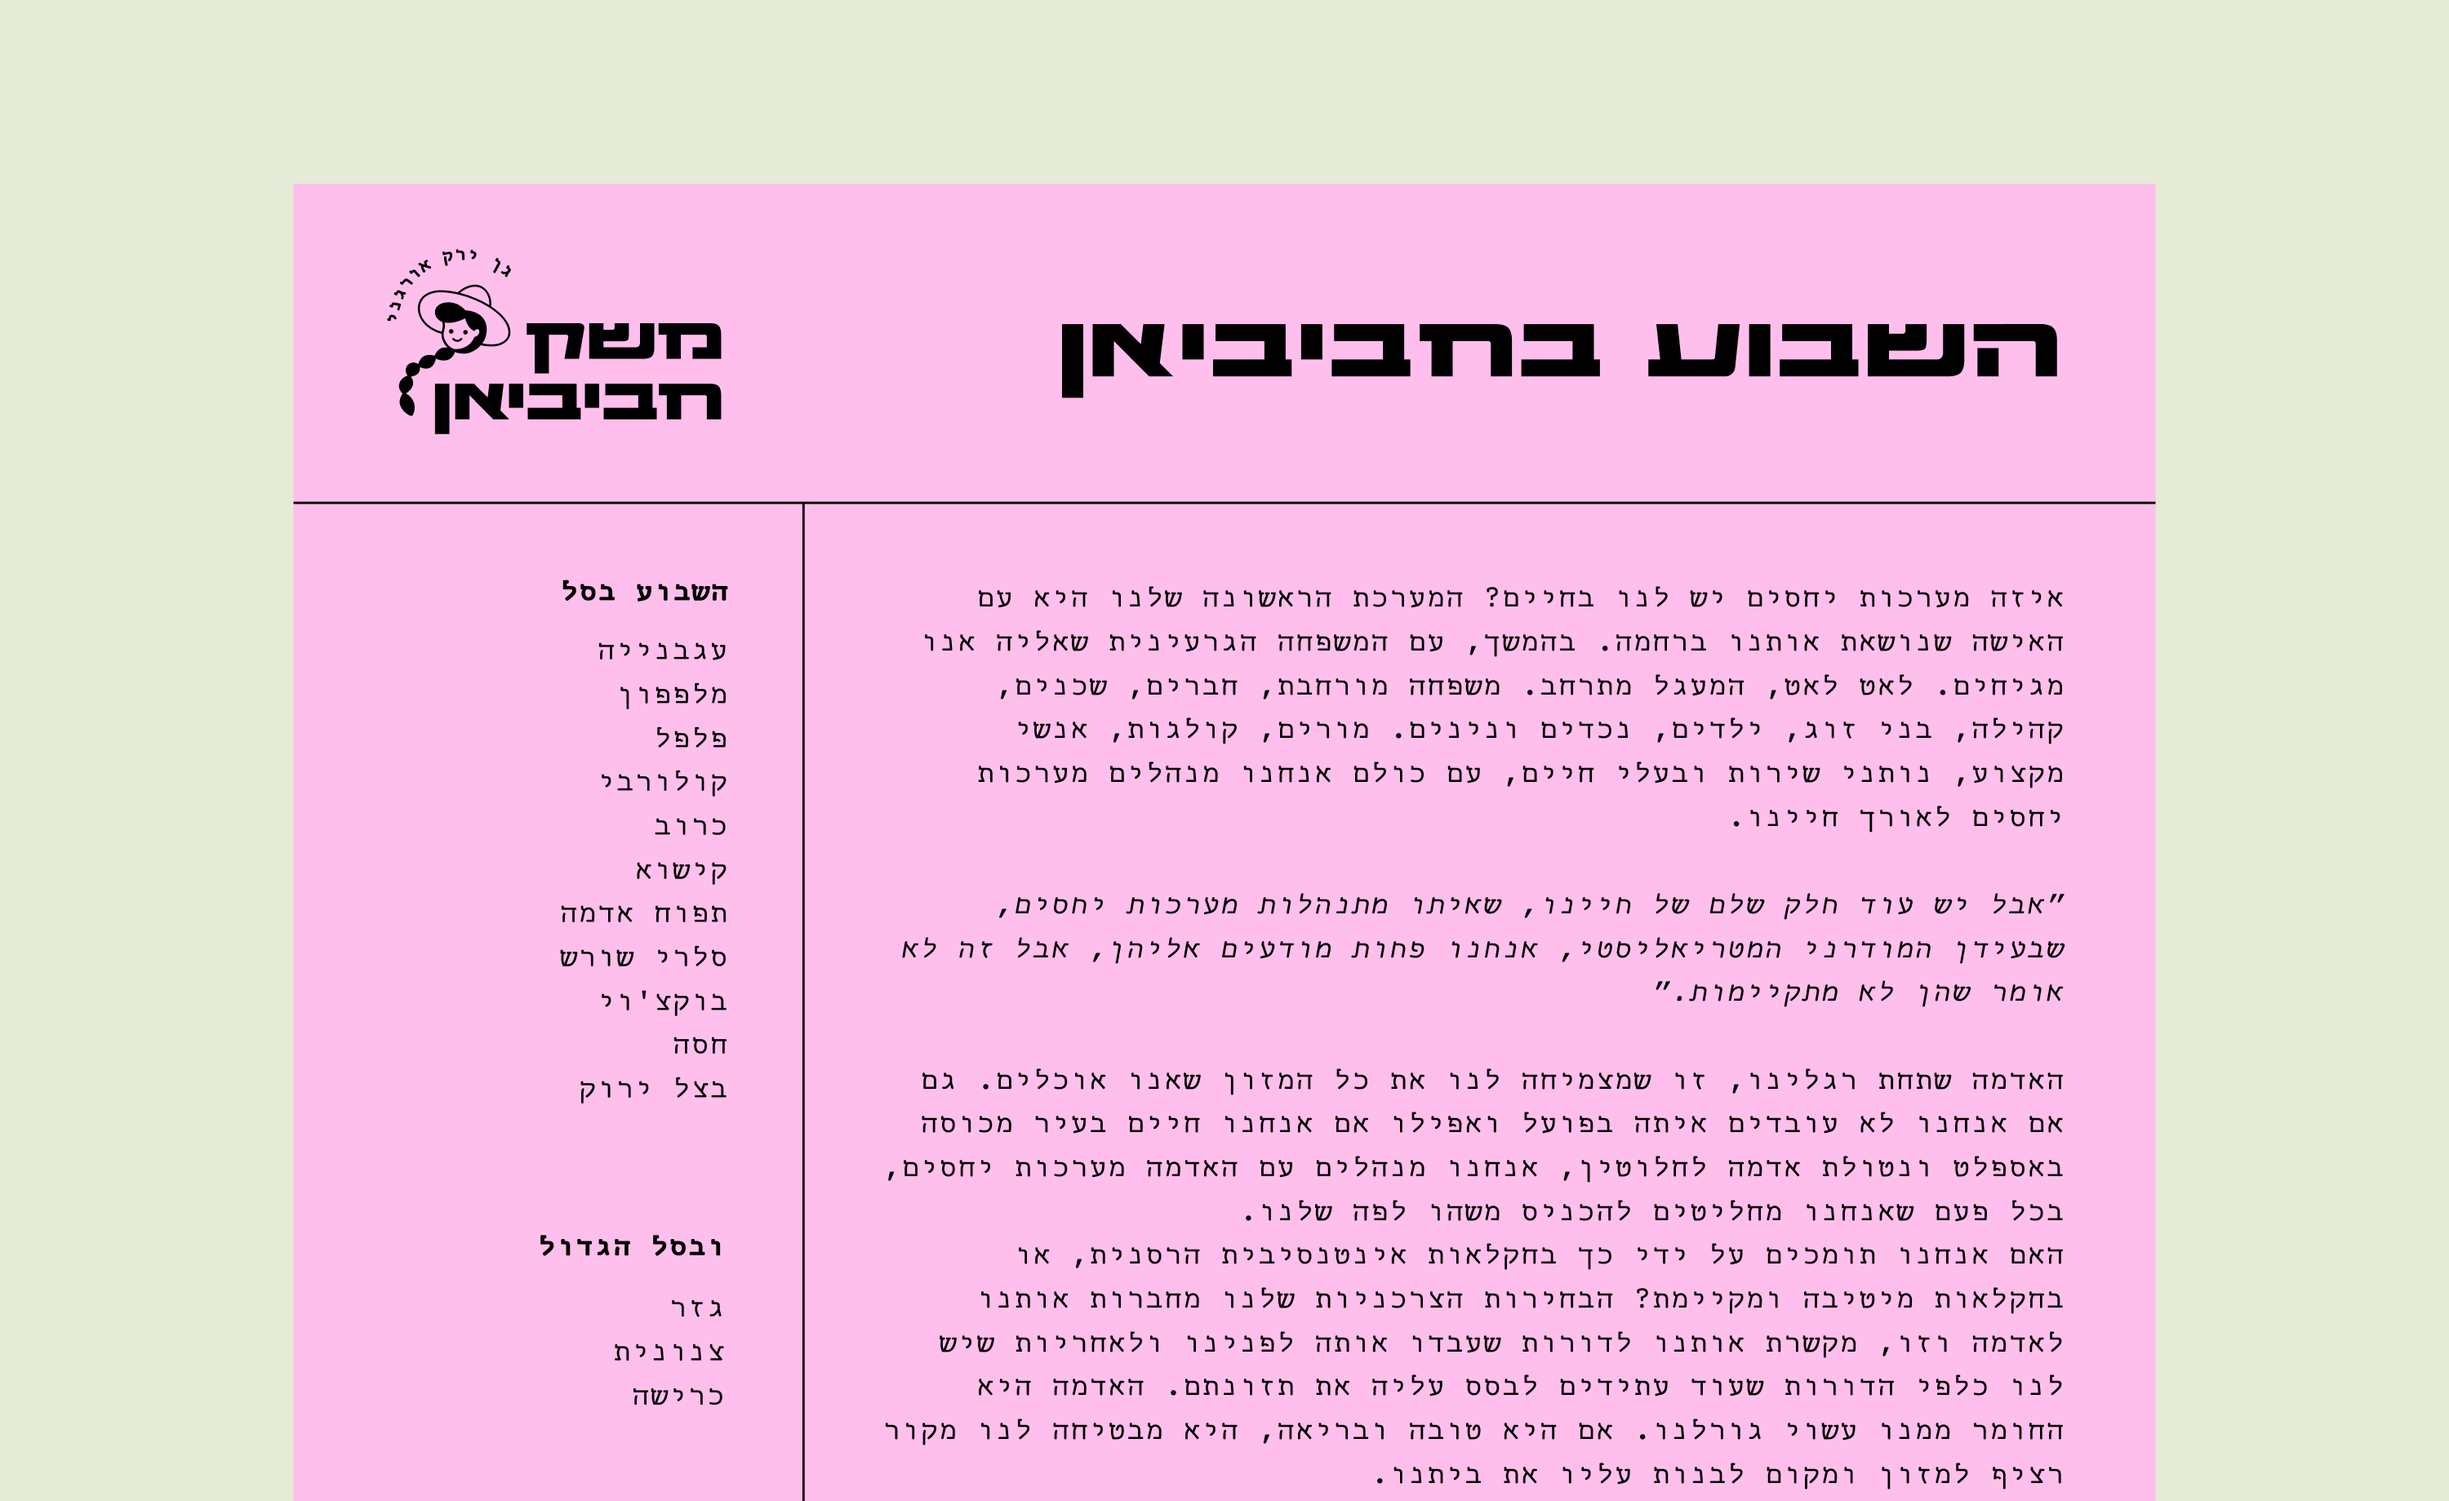
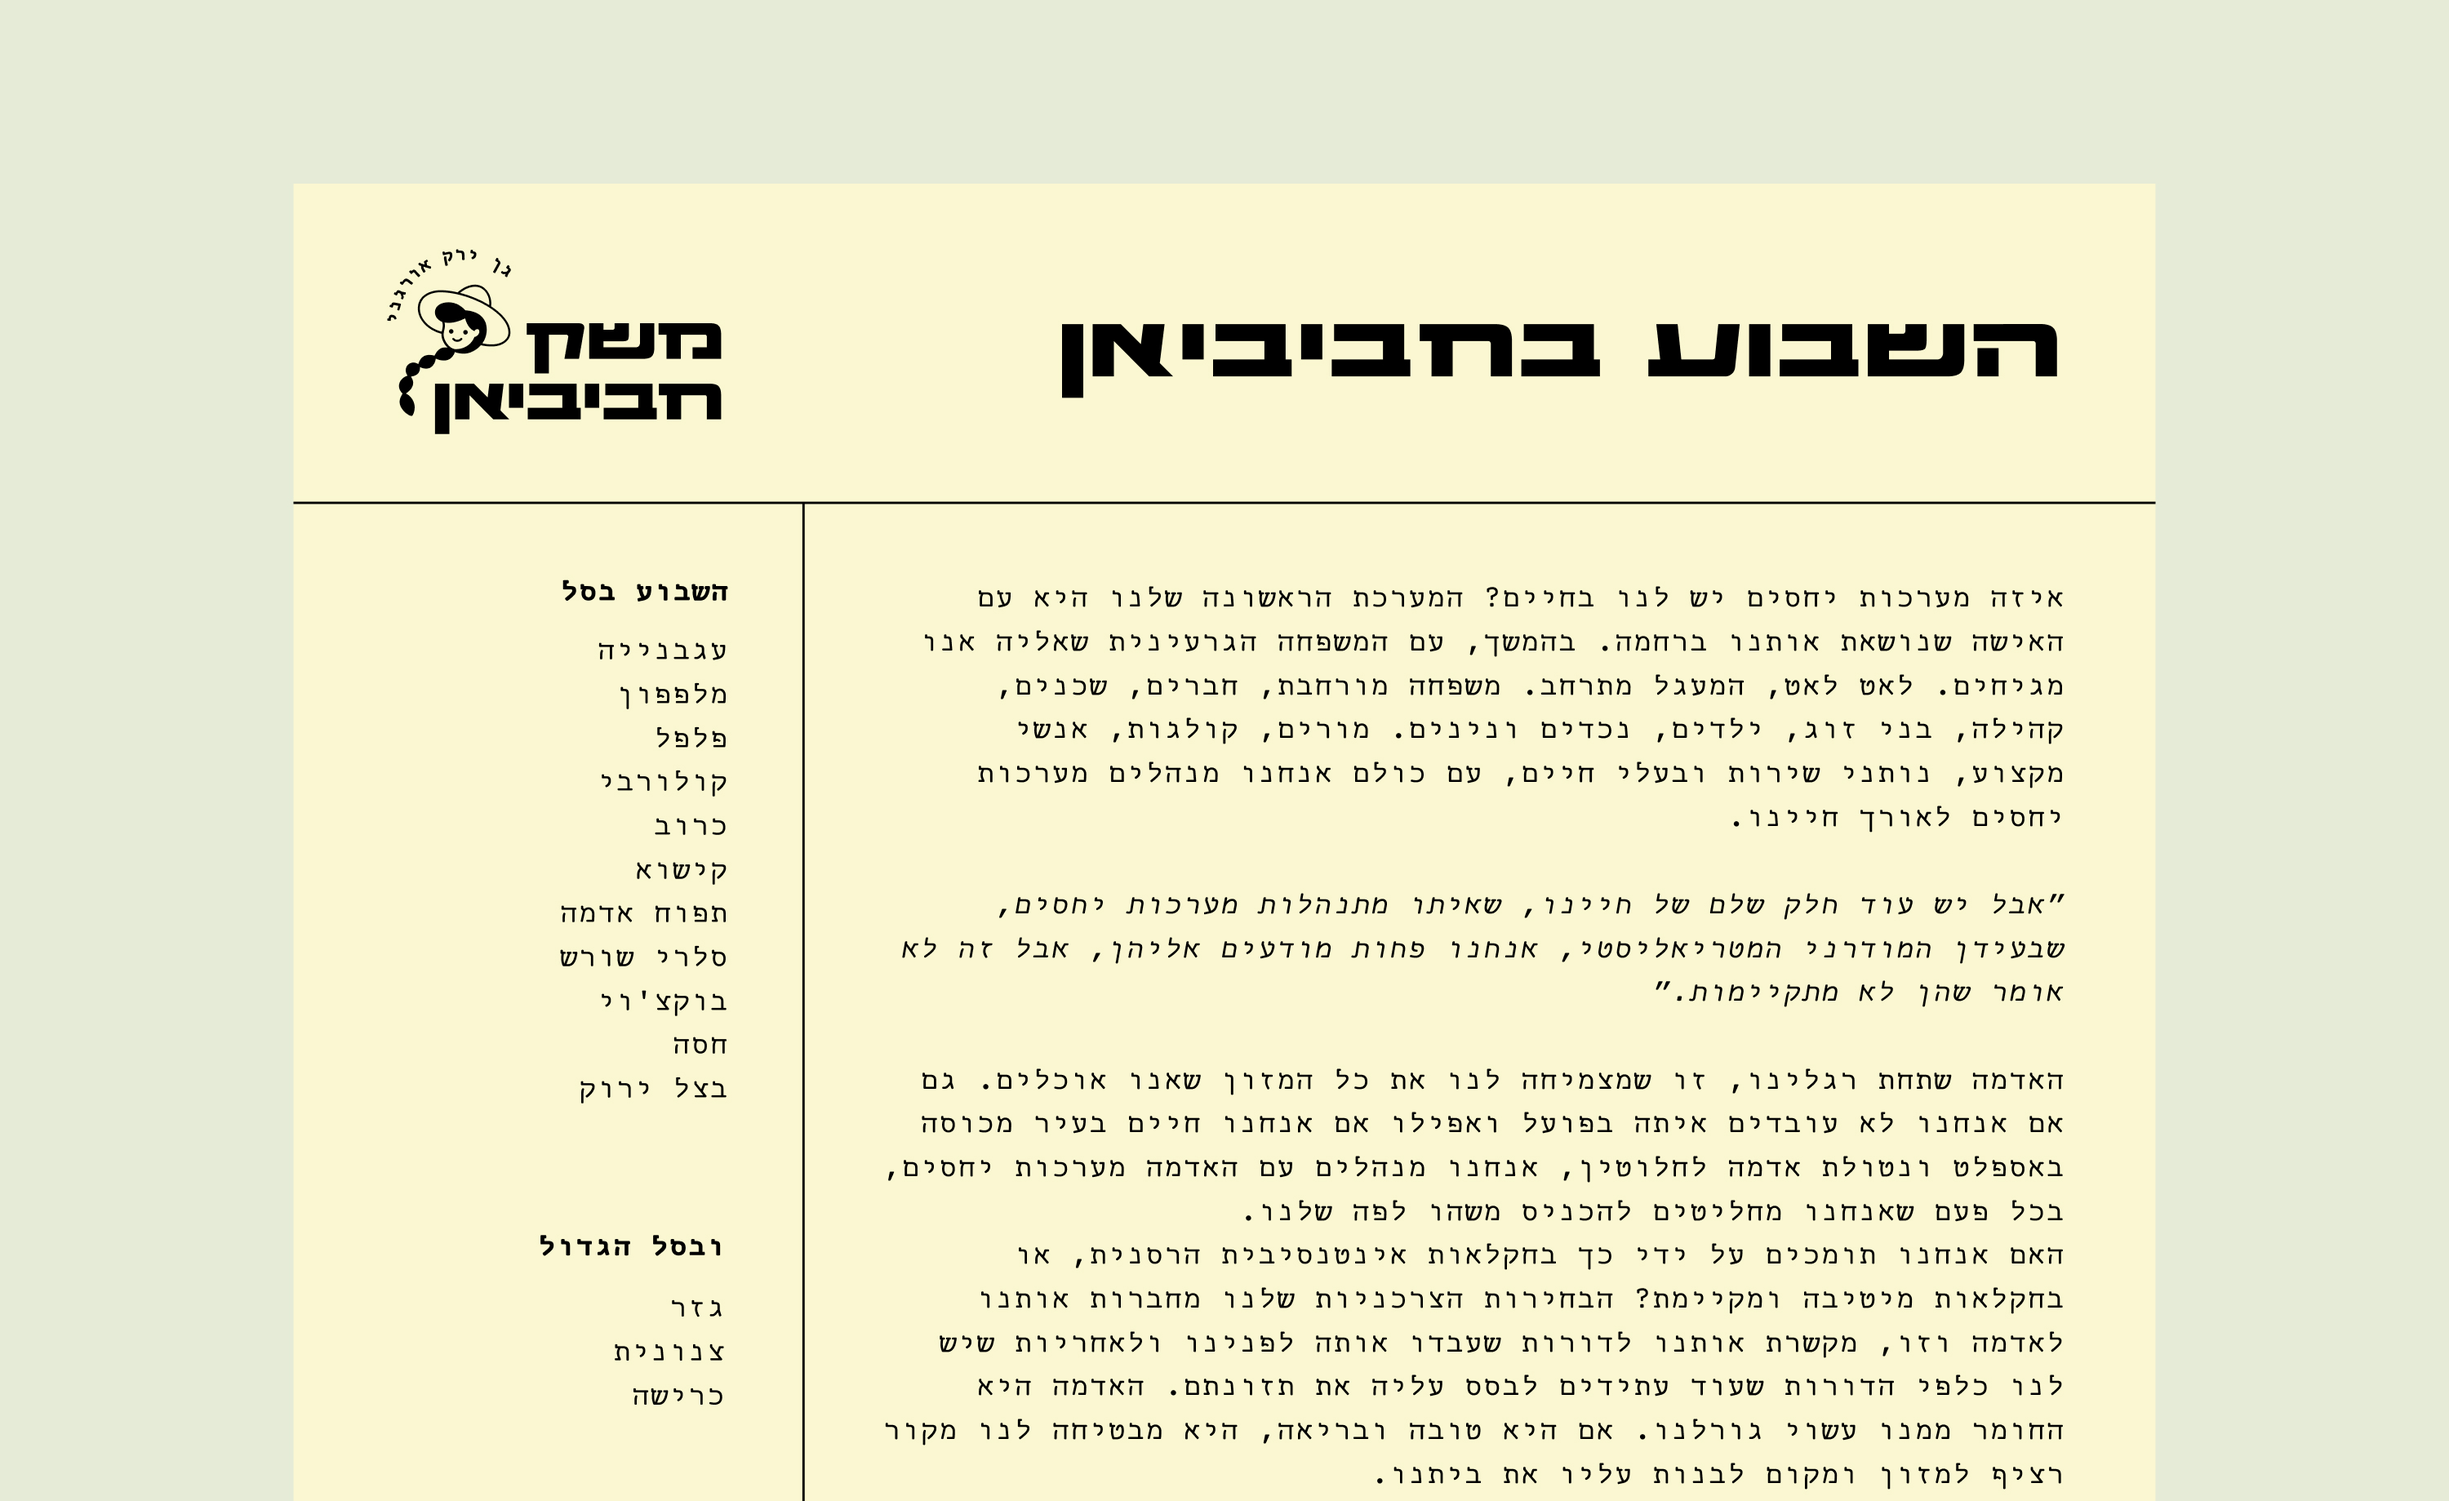
קלדנית סיום

diff --git a/kaldanit.html b/kaldanit.html
@@ -21,16 +21,16 @@
     <div class="intro-content">
       <div class="intro-grid">
         <div class="intro-text-column">
-          <p>Havivian Organic Vegetables is a community supported organic agriculture farm. We were asked to design a new website for the business, with a feature magazine, and as secondary content - an online shop. One of the new features are Michal's recipes. Michal is one of Havivian's owners, who weaves together recipes with stories from the vegetable plots, characterized by a lingering nostalgic essence. I imagined her documenting them on a typewriter, just like olden times. Thus, the first typeface that came to mind was Microsoft's Courier New, though it is both too thin, as well as worn out by overuse. I wanted to create a Slab Serif, mono-linear, mechanic typeface to convey a warm, naïve, and traditional feel – a typeface that seems as though it has always existed, even though it's new. During my search, I found a typewriter version of the Hebrew FrankRuehl typeface, which inspired me to turn to drafts I created in the past. As it turns out, I once created hand-drawn and digital sketches of an almost identical letterforms. I redrew them to achieve a typeface that reflects both Michal's kitchen as well as her office. And so, for this project, I utilized a typeface that had existed as a draft for 10 years – for the very first time. In collaboration with Liron Sabag.</p>
+          <p>Kaldanit was born inside the Havivian project, a community-supported organic farm that needed a site combining a magazine, shop, and Michal's recipes. I pictured her tucked behind the keyboard, quietly typing stories and songs about fields, markets, and people. Instead of the worn-out Courier New, I wanted a warm, mono-linear, mechanical voice that feels as if it has always been here. I dug up Hebrew typewriter references, including an old FrankRuehl variant, and matched them with hand sketches I'd kept for a decade. Reworking those drafts let me craft a face that holds both kitchen and office, with the quiet depth of someone who tells everything from behind the keys.</p>
         </div>
         
         <div class="technical-specs-column">
           <div class="specs-list">
             <div class="spec-line">Typeface: קלדנית</div>
             <div class="spec-line">Designed by: Nir Zabari Yenni</div>
-            <div class="spec-line">Year: 2024</div>
-            <div class="spec-line">Languages: Latin script</div>
-            <div class="spec-line">Formats: WOFF2</div>
+            <div class="spec-line">Year: 2021</div>
+            <div class="spec-line">Languages: Hebrew</div>
+            <div class="spec-line">Formats: OTF, WOFF2</div>
           </div>
         </div>
       </div>
@@ -78,7 +78,7 @@
           <select class="font-select" aria-label="Font and weight" style="display: none;">
             <option value="Kaldanit Regular" selected>קלדנית רגיל</option>
             <option value="Kaldanit Bold">קלדנית בולד</option>
-            <option value="Kaldanit Italic">קלדנית נטוי</option>
+            <option value="Kaldanit Italic" >קלדנית נטוי</option>
           </select>
         </div>
         <div class="align-buttons" role="group" aria-label="Align">
@@ -118,7 +118,7 @@
           </div>
           <select class="font-select" aria-label="Font and weight" style="display: none;">
             <option value="Kaldanit Regular" selected>קלדנית רגיל</option>
-            <option value="Kaldanit Bold">קלדנית בולד</option>
+            <option value="Kaldanit Bold" >קלדנית בולד</option>
             <option value="Kaldanit Italic">קלדנית נטוי</option>
           </select>
         </div>
@@ -158,9 +158,9 @@
             </div>
           </div>
           <select class="font-select" aria-label="Font and weight" style="display: none;">
-            <option value="Kaldanit Regular">קלדנית רגיל</option>
+            <option value="Kaldanit Regular" selected>קלדנית רגיל</option>
             <option value="Kaldanit Bold">קלדנית בולד</option>
-            <option value="Kaldanit Italic" selected>קלדנית נטוי</option>
+            <option value="Kaldanit Italic" >קלדנית נטוי</option>
           </select>
         </div>
         <div class="align-buttons" role="group" aria-label="Align">
@@ -199,9 +199,9 @@
             </div>
           </div>
           <select class="font-select" aria-label="Font and weight" style="display: none;">
-            <option value="Kaldanit Regular" selected>קלדנית רגיל</option>
+            <option value="Kaldanit Regular" >קלדנית רגיל</option>
             <option value="Kaldanit Bold">קלדנית בולד</option>
-            <option value="Kaldanit Italic">קלדנית נטוי</option>
+            <option value="Kaldanit Italic" selected>קלדנית נטוי</option>
           </select>
         </div>
         <div class="align-buttons" role="group" aria-label="Align">
@@ -212,7 +212,7 @@
       </div>
     </div>
 
-    <div class="type-area column-count-1" contenteditable="true" dir="rtl" style="font-family: 'Kaldanit'; font-style: italic; font-weight: 400; font-size: 18px; line-height: 1.5; letter-spacing: 0.01em;">הקיץ גווע מתוך זהב וכתם<br>ומתוך הארגמן<br>של שלכת הגנים ושל עבי ערבים<br>המתבוססות בדמן.<br><br>ומתרוקן הפרדס. רק טיילים יחידים<br>וטיילות יחידות<br>ישאו עינם הנוהה אחרי מעוף האחרונה<br>בשיירות החסידות.<br><br>ומתייתם הלב. עוד מעט ויום סגריר<br>על החלון יתדפק בדממה:<br>"בדקתם נעליכם? טלאתם אדרתכם?<br>צאו הכינו תפוחי אדמה".</div>
+    <div class="type-area column-count-1" contenteditable="true" dir="rtl" style="font-family: 'Kaldanit'; font-style: italic; font-weight: 400; font-size: 18px; line-height: 2; letter-spacing: 0.01em;">הקיץ גווע מתוך זהב וכתם<br>ומתוך הארגמן<br>של שלכת הגנים ושל עבי ערבים<br>המתבוססות בדמן.<br><br>ומתרוקן הפרדס. רק טיילים יחידים<br>וטיילות יחידות<br>ישאו עינם הנוהה אחרי מעוף האחרונה<br>בשיירות החסידות.<br><br>ומתייתם הלב. עוד מעט ויום סגריר<br>על החלון יתדפק בדממה:<br>"בדקתם נעליכם? טלאתם אדרתכם?<br>צאו הכינו תפוחי אדמה".</div>
   </section>
 
   <!-- === Section 4 === -->
@@ -253,7 +253,7 @@
       </div>
     </div>
 
-     <div class="type-area column-count-1 responsive-text" contenteditable="true" dir="rtl" style="font-family: 'Kaldanit'; font-weight: 700; font-size: 170px; line-height: 1; letter-spacing: -0.035em; text-align: center; white-space: nowrap;">כ-60 מילים בדקה</div>
+     <div class="type-area column-count-1 responsive-text" contenteditable="true" dir="rtl" style="font-family: 'Kaldanit'; font-style: italic; font-variation-settings: 'slnt' -10; font-weight: 700; font-size: 170px; line-height: 1; letter-spacing: -0.035em; text-align: center; white-space: nowrap;">כ-60 מילים בדקה</div>
   </section>
 
   <!-- === Section 5 === -->
@@ -271,7 +271,7 @@
         <div class="font-wrapper">
           <div class="custom-select font-select-custom" data-section="4">
             <div class="select-header">
-              <span class="select-value">קלדנית רגיל</span>
+              <span class="select-value">קלדנית בולד</span>
               <span class="select-arrow"></span>
             </div>
             <div class="select-options">
@@ -281,8 +281,8 @@
             </div>
           </div>
           <select class="font-select" aria-label="Font and weight" style="display: none;">
-            <option value="Kaldanit Regular" selected>קלדנית רגיל</option>
-            <option value="Kaldanit Bold">קלדנית בולד</option>
+            <option value="Kaldanit Regular">קלדנית רגיל</option>
+            <option value="Kaldanit Bold" selected>קלדנית בולד</option>
             <option value="Kaldanit Italic">קלדנית נטוי</option>
           </select>
         </div>
@@ -294,7 +294,7 @@
       </div>
     </div>
 
-     <div class="type-area column-count-1 responsive-text" contenteditable="true" dir="rtl" style="font-family: 'Kaldanit'; font-weight: 700; font-size: 244px; line-height: 1; letter-spacing: -0.035em; text-align: center; white-space: nowrap;">שלום 123!</div>
+     <div class="type-area column-count-1 responsive-text" contenteditable="true" dir="rtl" style="font-family: 'Kaldanit'; font-weight: 700; font-size: 244px; line-height: 1; letter-spacing: -0.035em; text-align: center; white-space: nowrap;">אני גיטרה</div>
   </section>
 
 
